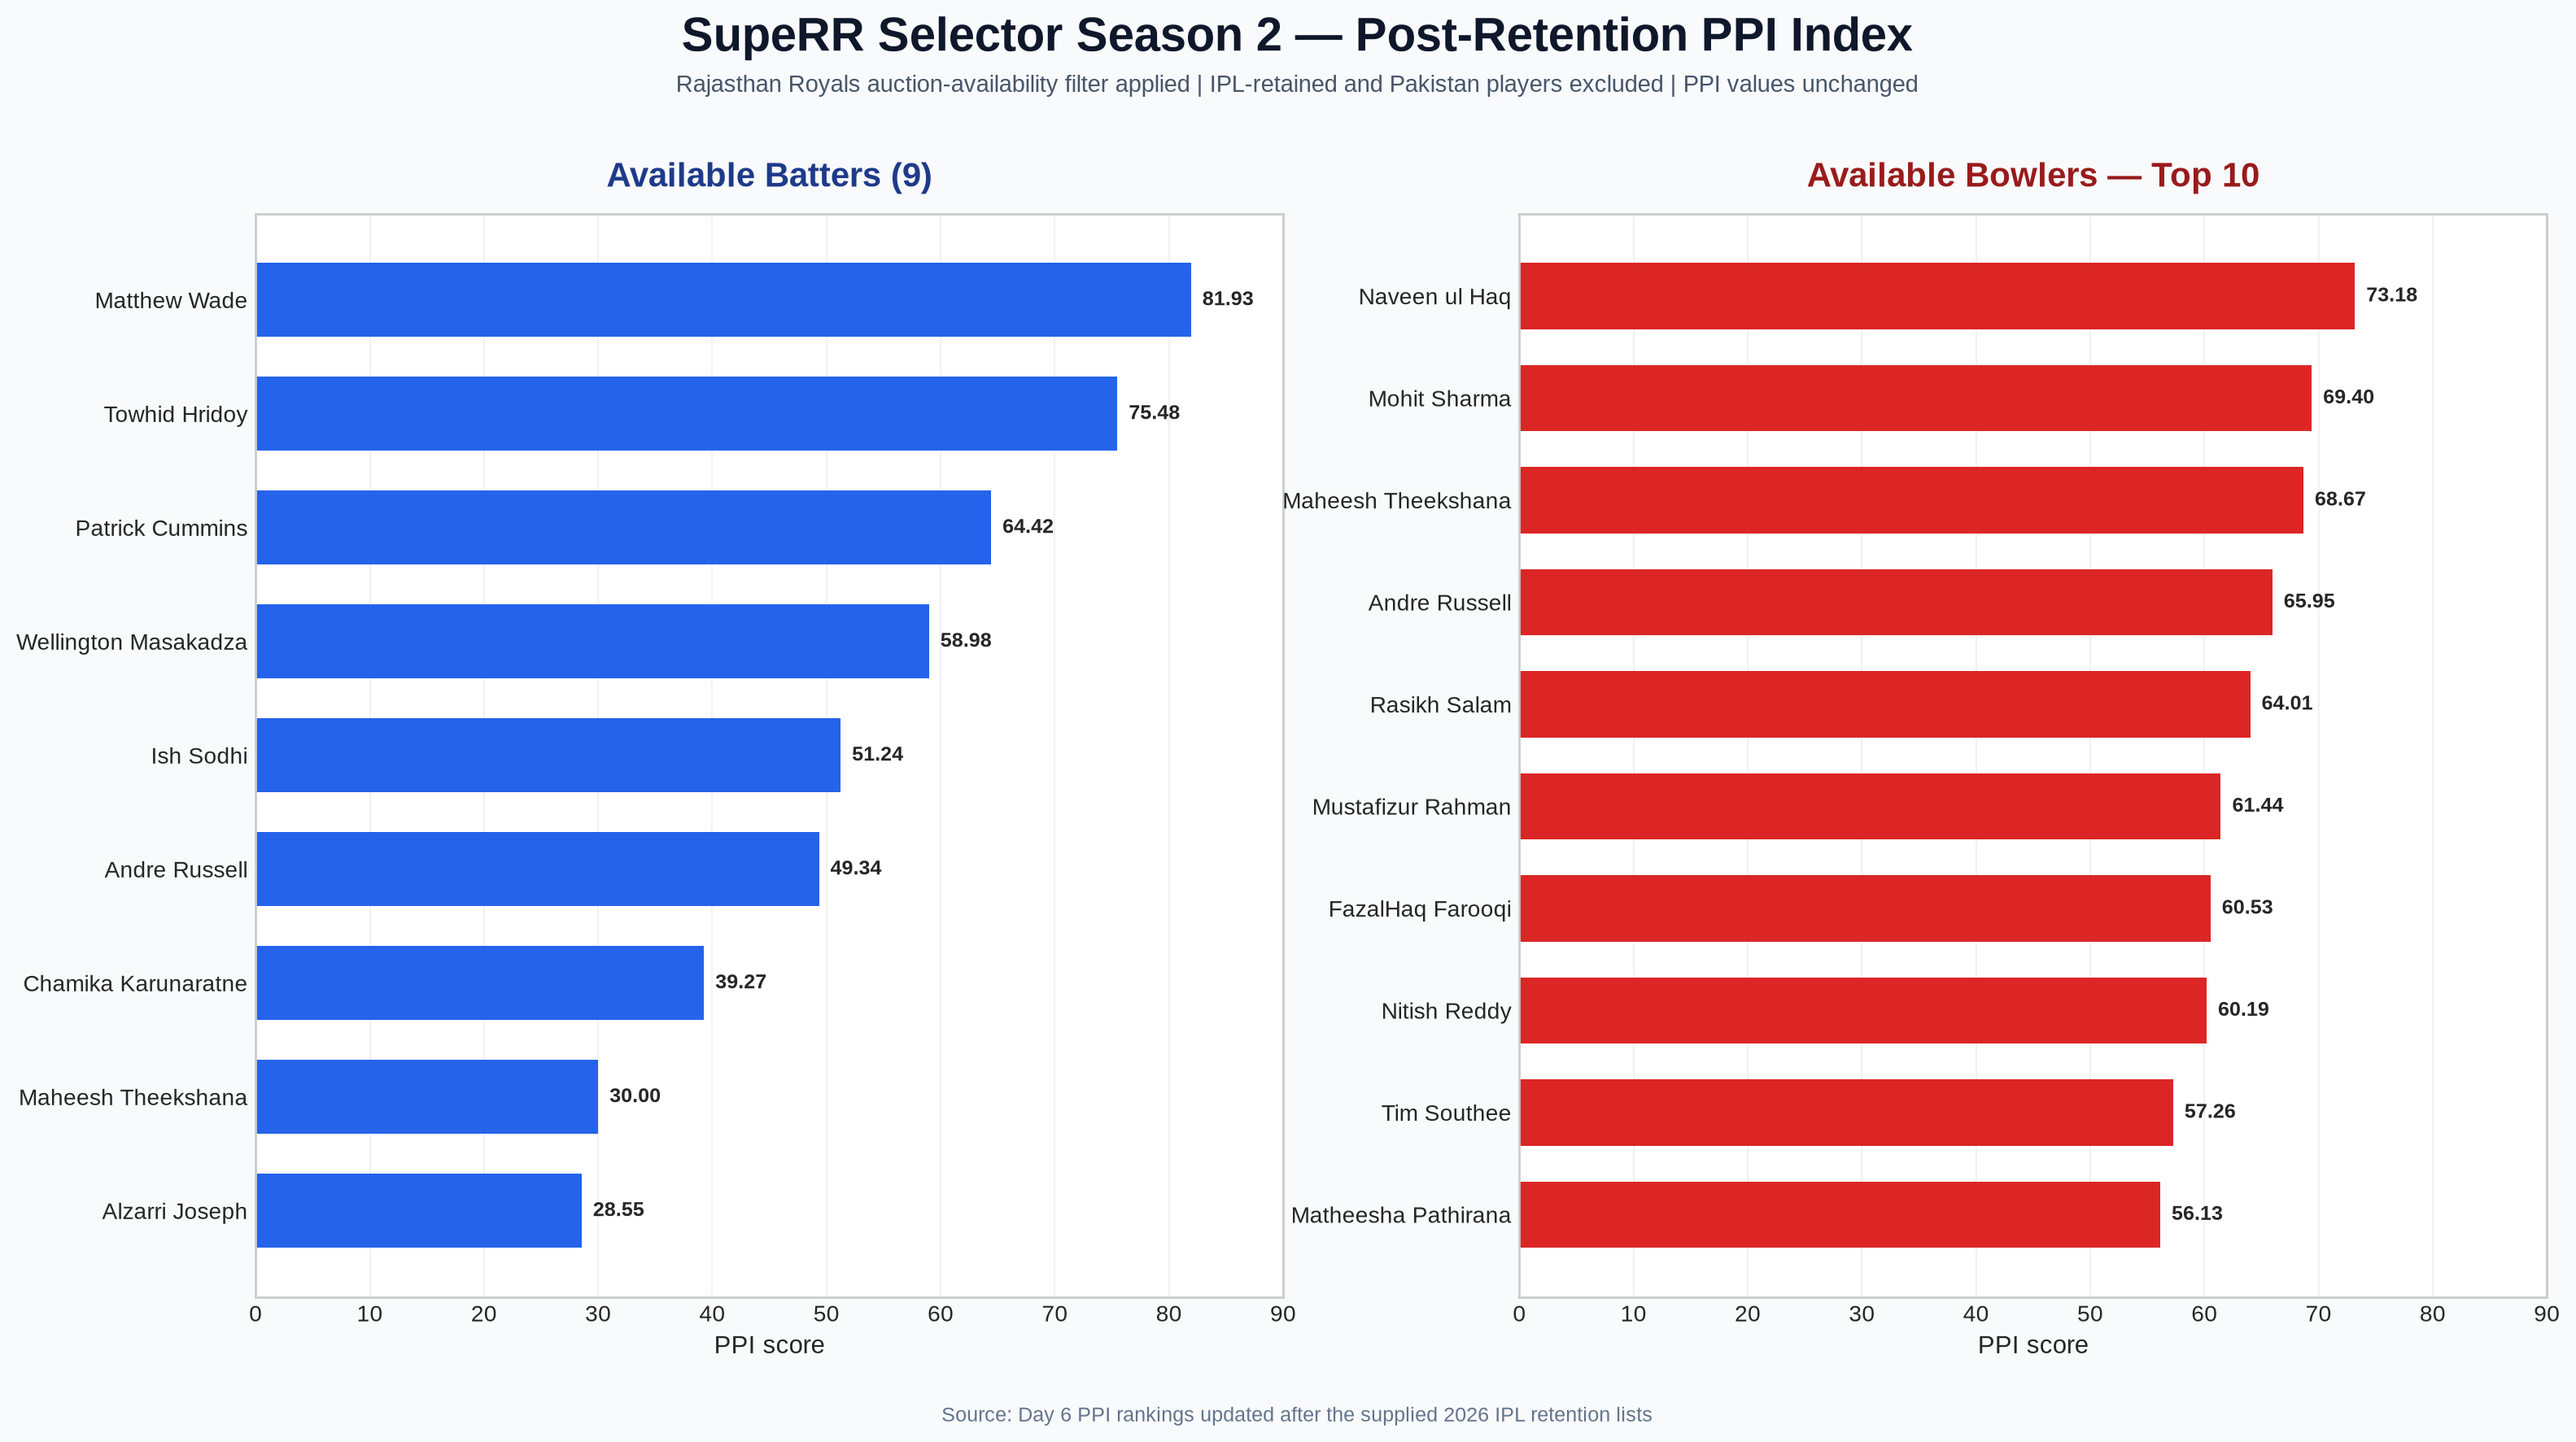
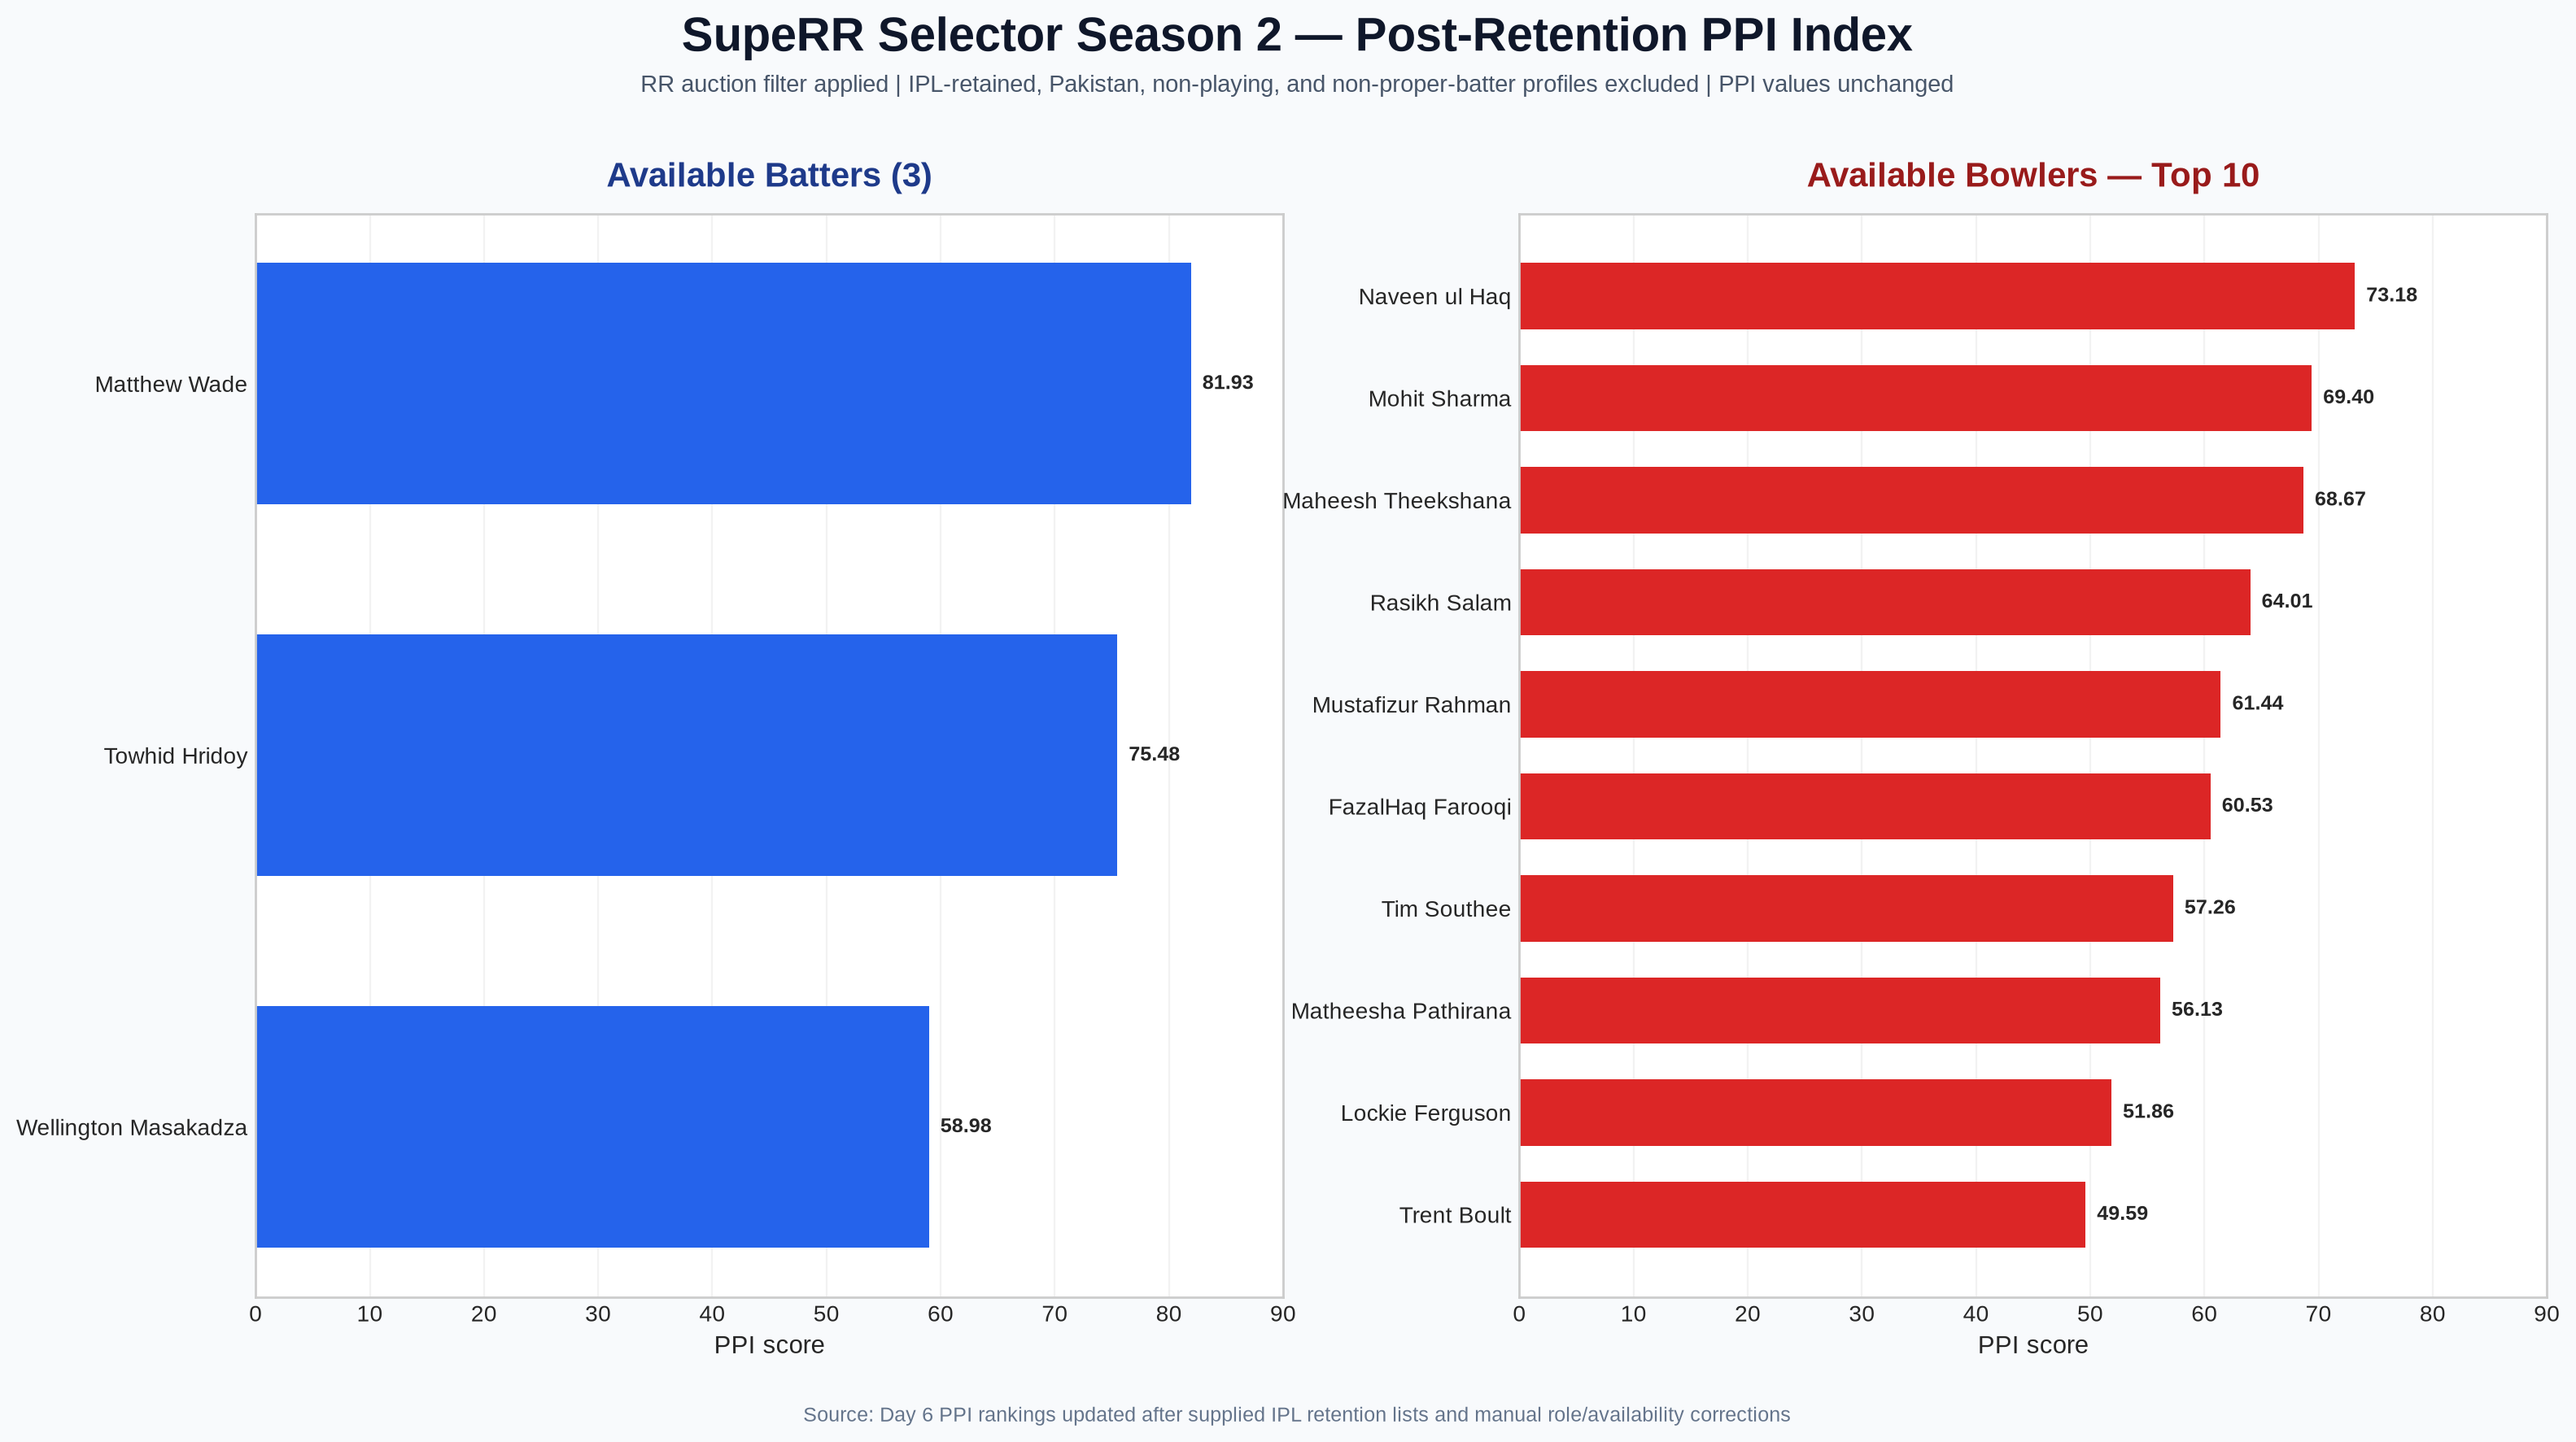
Refine post-retention PPI availability filters

diff --git a/scripts/post_retention_ppi.py b/scripts/post_retention_ppi.py
@@ -27,7 +27,8 @@ ALIASES = {
     "mohammedsiraj": "mohdsiraj",
     "mohammedshami": "mohdshami",
     "mohammedarshadkhan": "mohdarshadkhan",
-    "r sai kishore": "rsai kishore",
+    "patcummins": "patrickcummins",
+    "nitishreddy": "nitishkumareddy",
     "rsai kishore": "rsai kishore",
 }
 
@@ -36,6 +37,21 @@ PAKISTAN_PLAYERS = {
     "Abrar Ahmed",
     "Mohammad Saifuddin",
     "Naseem Shah",
+}
+
+MANUAL_BATTER_EXCLUSIONS = {
+    "Ish Sodhi": "Bowler/part-time batting profile — not counted as a proper batter",
+    "Maheesh Theekshana": "Bowler/part-time batting profile — not counted as a proper batter",
+    "Alzarri Joseph": "Bowler profile — not counted as a proper batter",
+    "Chamika Karunaratne": "Bowling all-rounder — not counted as a proper batter",
+}
+
+MANUAL_GLOBAL_EXCLUSIONS = {
+    "Andre Russell": "Not playing in the IPL",
+}
+
+MANUAL_BOWLER_EXCLUSIONS = {
+    "Nitish Reddy": "Retained by Sunrisers Hyderabad",
 }
 
 
@@ -53,7 +69,7 @@ def retention_table() -> pd.DataFrame:
     return pd.DataFrame(rows).drop_duplicates(["team", "name_key"])
 
 
-def filter_rankings(df: pd.DataFrame, name_col: str, retention: pd.DataFrame) -> tuple[pd.DataFrame, pd.DataFrame]:
+def filter_rankings(df: pd.DataFrame, name_col: str, retention: pd.DataFrame, category: str) -> tuple[pd.DataFrame, pd.DataFrame]:
     retained = retention.groupby("name_key", as_index=True).agg(
         team=("team", lambda s: "; ".join(sorted(set(s)))),
         rr_owned=("rr_owned", "max"),
@@ -63,9 +79,13 @@ def filter_rankings(df: pd.DataFrame, name_col: str, retention: pd.DataFrame) ->
     x["retained_by"] = x["name_key"].map(retained["team"])
     x["retained_by_rr"] = x["name_key"].map(retained["rr_owned"]).fillna(False).astype(bool)
     x["pakistan_excluded"] = x[name_col].isin(PAKISTAN_PLAYERS)
+    manual = dict(MANUAL_GLOBAL_EXCLUSIONS)
+    manual.update(MANUAL_BATTER_EXCLUSIONS if category == "batting" else MANUAL_BOWLER_EXCLUSIONS)
+    x["manual_exclusion_reason"] = x[name_col].map(manual).fillna("")
     x["removal_reason"] = ""
     x.loc[x.retained_by.notna(), "removal_reason"] = "Retained by IPL team"
     x.loc[x.pakistan_excluded, "removal_reason"] = "Pakistan player — unavailable for IPL selection"
+    x.loc[x.manual_exclusion_reason.ne(""), "removal_reason"] = x.loc[x.manual_exclusion_reason.ne(""), "manual_exclusion_reason"]
     removed = x[x.removal_reason.ne("")].copy()
     available = x[x.removal_reason.eq("")].copy()
     available["post_retention_rank"] = range(1, len(available) + 1)
@@ -83,8 +103,8 @@ def main() -> None:
     retention.to_csv(args.output_dir / "retained_players.csv", index=False)
     bat = pd.read_csv(args.ranking_dir / "batting_ppi_eligible.csv")
     bowl = pd.read_csv(args.ranking_dir / "bowling_ppi_eligible.csv")
-    bat_avail, bat_removed = filter_rankings(bat, "striker_name", retention)
-    bowl_avail, bowl_removed = filter_rankings(bowl, "bowler_name", retention)
+    bat_avail, bat_removed = filter_rankings(bat, "striker_name", retention, "batting")
+    bowl_avail, bowl_removed = filter_rankings(bowl, "bowler_name", retention, "bowling")
     bat_avail.to_csv(args.output_dir / "post_retention_batting_ppi.csv", index=False)
     bowl_avail.to_csv(args.output_dir / "post_retention_bowling_ppi.csv", index=False)
     bat_avail.head(10).to_csv(args.output_dir / "post_retention_top10_batting_ppi.csv", index=False)
@@ -97,6 +117,8 @@ def main() -> None:
         "# Post-retention PPI update",
         "",
         "This ranking update applies the retention lists supplied in the 10 screenshots on November 18, 2026. It removes all players retained by any IPL team, including players already retained by Rajasthan Royals, because those players are unavailable for Rajasthan Royals to buy at auction. It also removes Pakistan players because they are unavailable for IPL selection.",
+        "",
+        "The subsequent manual update additionally removes Patrick Cummins and Nitish Reddy as SRH-retained, Andre Russell as not playing in the IPL, and the requested bowling/bowling-all-rounder profiles from the batter list: Ish Sodhi, Patrick Cummins, Maheesh Theekshana, Alzarri Joseph, and Chamika Karunaratne.",
         "",
         "This is a post-retention availability filter, not a recalculation of player performance. PPI values remain unchanged; only unavailable players are removed and the remaining players are re-ranked.",
         "",

diff --git a/outputs/post_retention/post_retention_ppi_index.md b/outputs/post_retention/post_retention_ppi_index.md
@@ -1,45 +1,41 @@
 # Post-retention PPI index
 
-**Status: Updated after post-retention and Pakistan-player eligibility filtering.**
+**Status: Updated after post-retention, role, and player-availability filtering.**
 
-PPI scores are unchanged from Day 6. Only unavailable players were removed and the remaining players were re-ranked for Rajasthan Royals auction availability.
+PPI scores are unchanged from Day 6. Unavailable players and non-proper batting profiles were removed, and the remaining players were re-ranked for Rajasthan Royals auction availability.
 
-Available batting pool: **9** players.
+Available batting pool: **3** players.
 
 ## Available batting ranking
 
 | Post-retention rank | Player | PPI |
 |---:|---|---:|
-| 1 | Matthew Wade | 81.93 |
+| 3 | Wellington Masakadza | 58.98 |
 | 2 | Towhid Hridoy | 75.48 |
-| 3 | Patrick Cummins | 64.42 |
-| 4 | Wellington Masakadza | 58.98 |
-| 5 | Ish Sodhi | 51.24 |
-| 6 | Andre Russell | 49.34 |
-| 7 | Chamika Karunaratne | 39.27 |
-| 8 | Maheesh Theekshana | 30.00 |
-| 9 | Alzarri Joseph | 28.55 |
+| 1 | Matthew Wade | 81.93 |
 
-Available bowling pool: **17** players.
+Available bowling pool: **10** players.
 
 ## Available bowling ranking
 
 | Post-retention rank | Player | PPI |
 |---:|---|---:|
-| 1 | Naveen ul Haq | 73.18 |
-| 2 | Mohit Sharma | 69.40 |
+| 10 | Trent Boult | 49.59 |
+| 9 | Lockie Ferguson | 51.86 |
+| 8 | Matheesha Pathirana | 56.13 |
+| 7 | Tim Southee | 57.26 |
+| 6 | FazalHaq Farooqi | 60.53 |
+| 5 | Mustafizur Rahman | 61.44 |
+| 4 | Rasikh Salam | 64.01 |
 | 3 | Maheesh Theekshana | 68.67 |
-| 4 | Andre Russell | 65.95 |
-| 5 | Rasikh Salam | 64.01 |
-| 6 | Mustafizur Rahman | 61.44 |
-| 7 | FazalHaq Farooqi | 60.53 |
-| 8 | Nitish Reddy | 60.19 |
-| 9 | Tim Southee | 57.26 |
-| 10 | Matheesha Pathirana | 56.13 |
+| 2 | Mohit Sharma | 69.40 |
+| 1 | Naveen ul Haq | 73.18 |
 
-## Filtering rules
+## Additional filters applied
 
-- Remove every player retained by any of the 10 IPL teams in the supplied screenshots.
-- This includes players already retained by Rajasthan Royals.
-- Remove Pakistan players as unavailable for IPL selection.
-- Keep the original Day 6 PPI ranking unchanged for auditability; this file is a post-retention availability ranking.
+- Removed Pat/Patrick Cummins as retained by Sunrisers Hyderabad.
+- Removed Nitish Reddy as retained by Sunrisers Hyderabad.
+- Removed Andre Russell from both lists because he is not playing in the IPL.
+- Removed Ish Sodhi, Maheesh Theekshana, and Alzarri Joseph from batters because they are bowling profiles.
+- Removed Chamika Karunaratne from batters because he is a bowling all-rounder.
+- Kept Maheesh Theekshana in the bowling list.

diff --git a/outputs/post_retention/post_retention_notes.md b/outputs/post_retention/post_retention_notes.md
@@ -2,11 +2,13 @@
 
 This ranking update applies the retention lists supplied in the 10 screenshots on November 18, 2026. It removes all players retained by any IPL team, including players already retained by Rajasthan Royals, because those players are unavailable for Rajasthan Royals to buy at auction. It also removes Pakistan players because they are unavailable for IPL selection.
 
+The subsequent manual update additionally removes Patrick Cummins and Nitish Reddy as SRH-retained, Andre Russell as not playing in the IPL, and the requested bowling/bowling-all-rounder profiles from the batter list: Ish Sodhi, Patrick Cummins, Maheesh Theekshana, Alzarri Joseph, and Chamika Karunaratne.
+
 This is a post-retention availability filter, not a recalculation of player performance. PPI values remain unchanged; only unavailable players are removed and the remaining players are re-ranked.
 
 - Retained-player rows transcribed: 186
-- Batting PPI players before filter: 17; removed: 8; available after retention: 9
-- Bowling PPI players before filter: 45; removed: 28; available after retention/eligibility filter: 17
+- Batting PPI players before filter: 17; removed: 14; available after retention: 3
+- Bowling PPI players before filter: 45; removed: 30; available after retention/eligibility filter: 15
 
 ## Outputs
 
